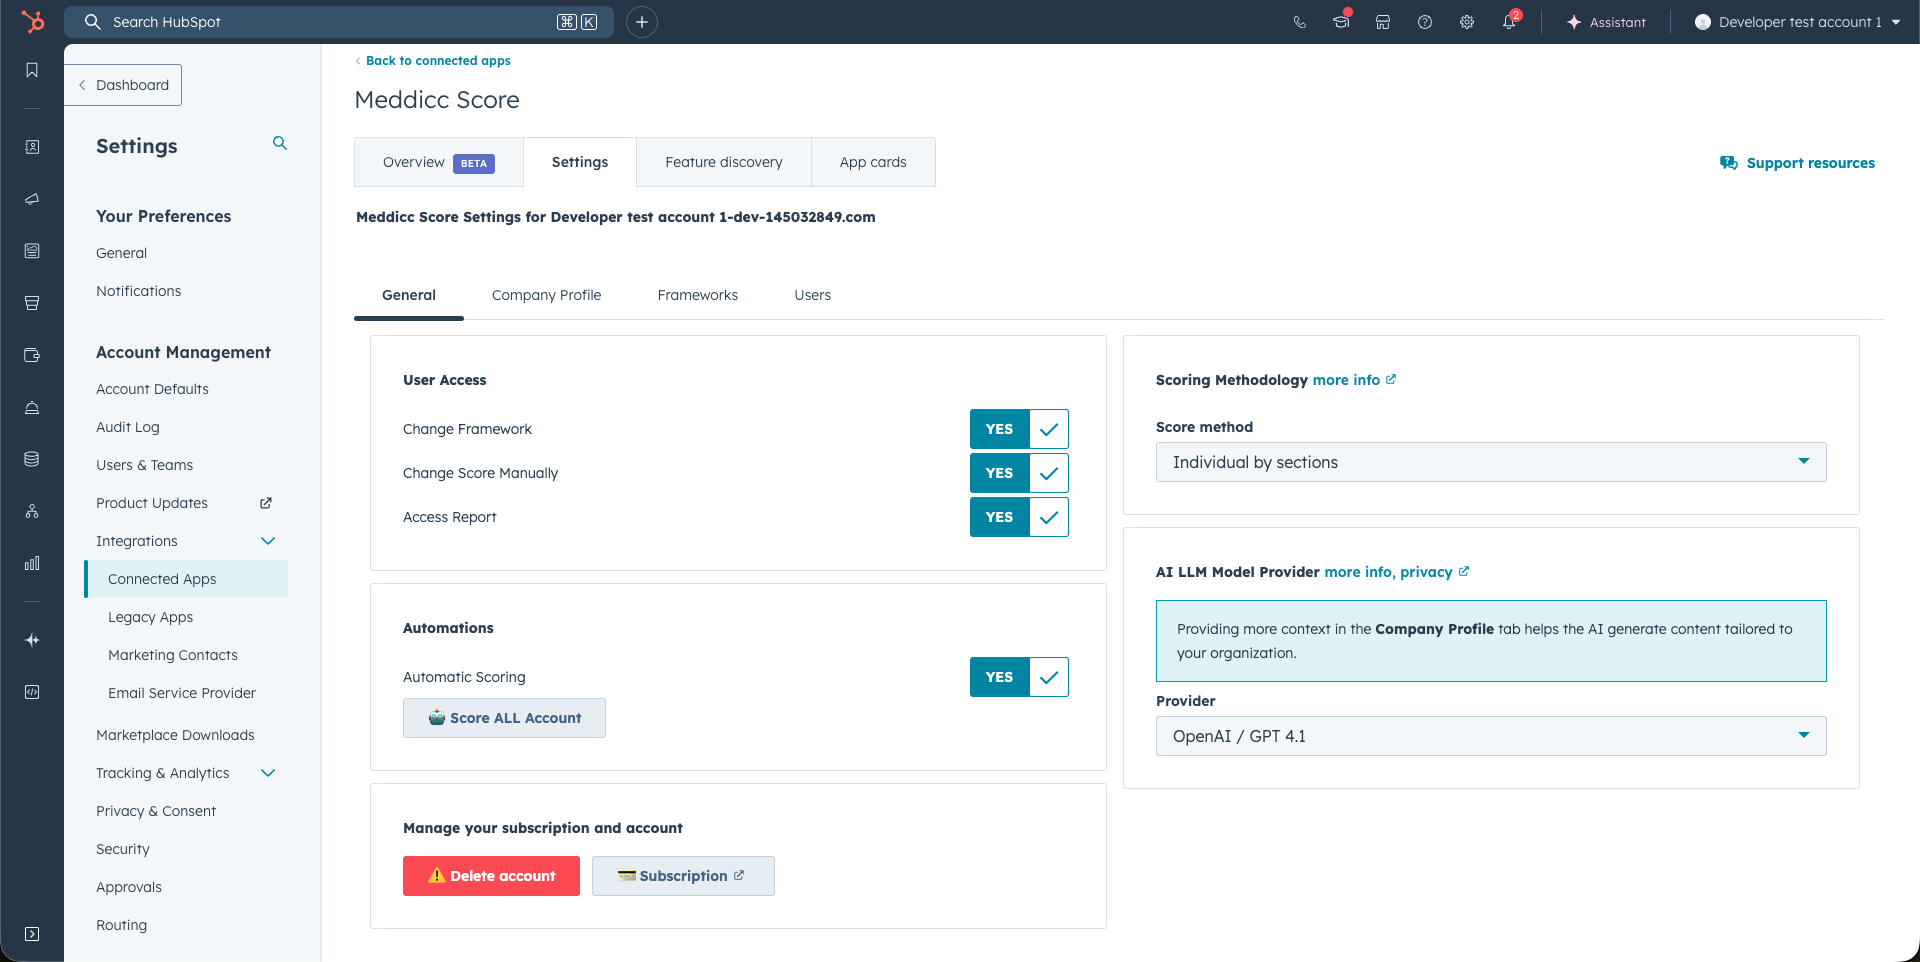
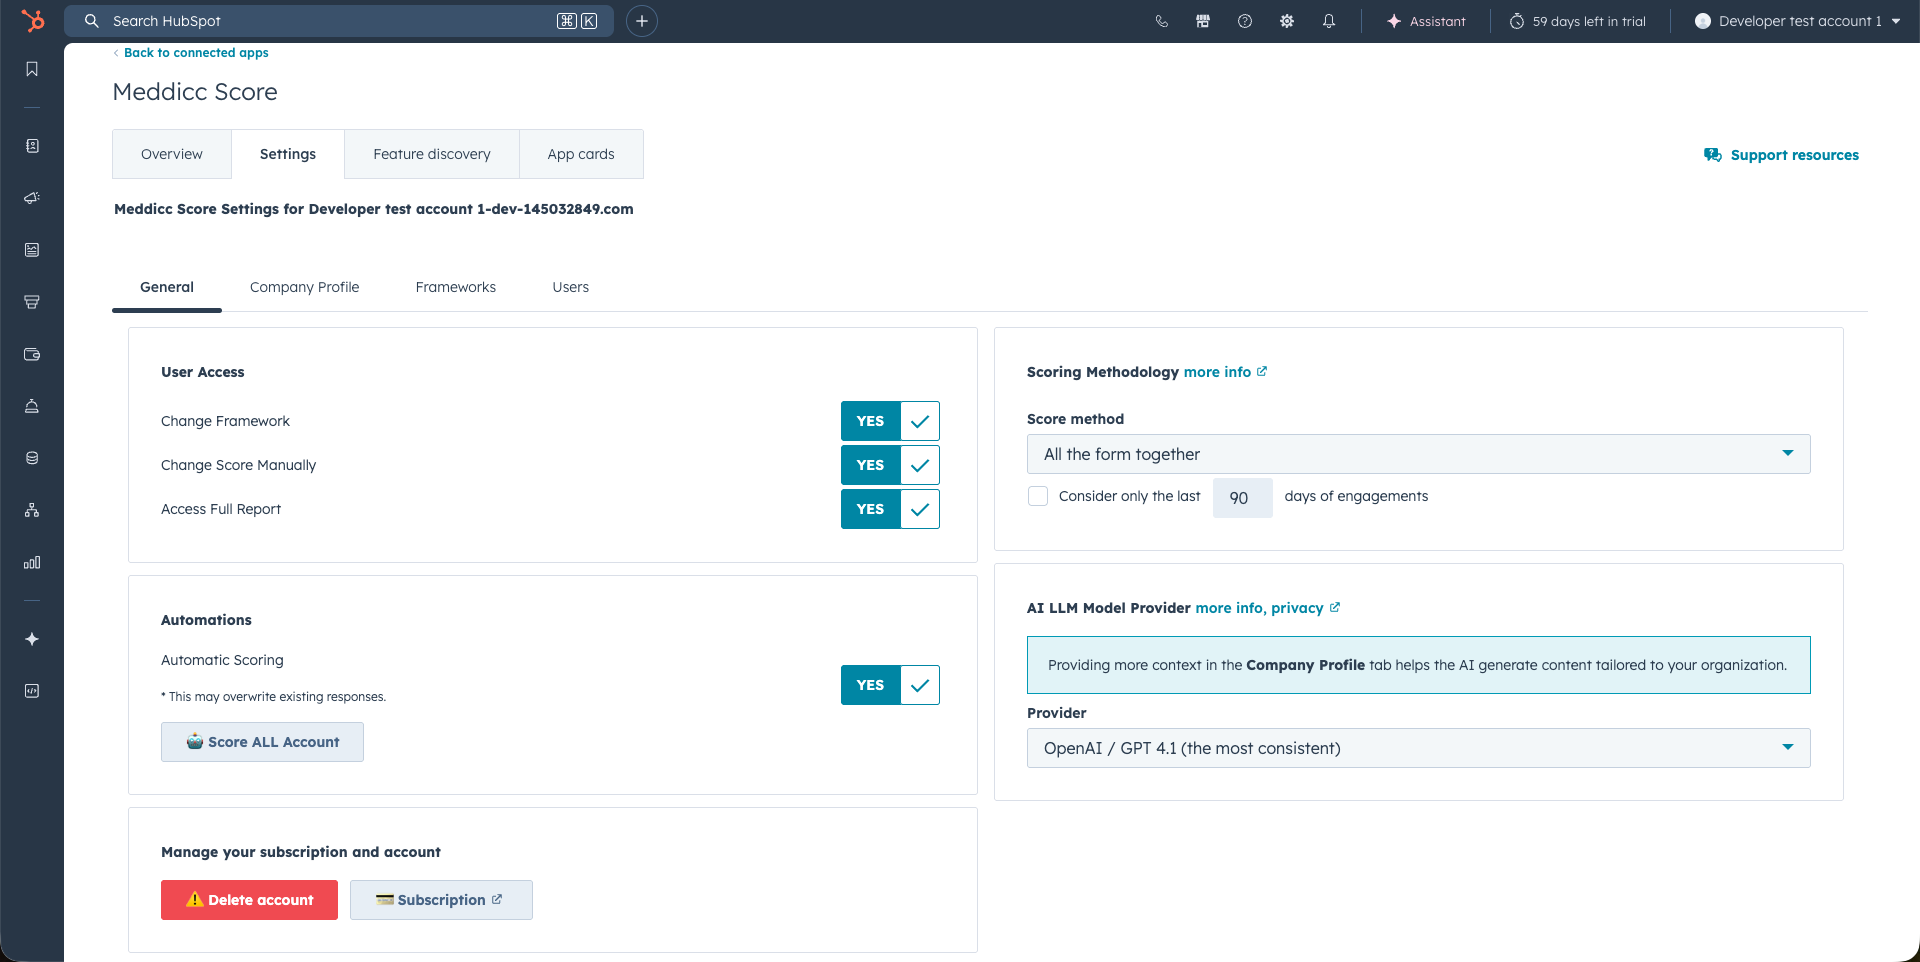
fix new features

diff --git a/_posts/2023-01-01-setup-guide.md b/_posts/2023-01-01-setup-guide.md
@@ -320,13 +320,16 @@ Note: Comments to engagements or attachments to the engagements are not gathered
 <p class="pt-6-m" id="scoring_methodology"><strong>8.1.3 Scoring Methodology:</strong></p>
 
 <ul>
-  <li>Score of the forms go from 0 to 100. There are two options for Scoring the forms.</li>
-  <li>
-    <strong>All the form together (default):</strong> When enabled, the entire form is evaluated by the selected AI LLM model, which generates a score based on the overall responses within the sales qualification framework and assesses the likelihood of successfully closing the deal. Please note that results may vary depending on the chosen model and the specific evaluation, and may sometimes be subject to interpretation or appear optimistic in nature.
-  </li>
-  <li>
-    <strong>Individual by sections:</strong> With this option, each section of the form (e.g., Metrics, Economic Buyer, etc.) is scored as either bad (0), medium (0.5), or good (1). The individual section scores are then summed, divided by the total number of sections, and multiplied by 100 to produce a final score between 0 and 100. This method provides more predictable and consistent results, though it may also lead to more repetitive scoring patterns.
-  </li>
+  <li>Score of the forms go from 0 to 100. There are two options for Scoring the forms:</li>
+  <ul>
+    <li>
+      <strong>All the form together (default):</strong> When enabled, the entire form is evaluated by the selected AI LLM model, which generates a score based on the overall responses within the sales qualification framework and assesses the likelihood of successfully closing the deal. Please note that results may vary depending on the chosen model and the specific evaluation, and may sometimes be subject to interpretation or appear optimistic in nature.
+    </li>
+    <li>
+      <strong>Individual by sections:</strong> With this option, each section of the form (e.g., Metrics, Economic Buyer, etc.) is scored as either bad (0), medium (0.5), or good (1). The individual section scores are then summed, divided by the total number of sections, and multiplied by 100 to produce a final score between 0 and 100. This method provides more predictable and consistent results, though it may also lead to more repetitive scoring patterns.
+    </li>
+  </ul>
+  <li>Consider only the las XX days of engagements: By default, the AI analyzes the last 100 deal activities (notes, calls, meetings, etc). You can refine this by setting a specific day limit, ensuring the AI focuses only on your most recent—and relevant—engagements for refilling and scoring.</li>
 </ul>
 
 <p class="pt-6-m" id="selectLLM"><strong>8.1.4 AI LLM Model Provider:</strong></p>
@@ -466,7 +469,9 @@ Note: Comments to engagements or attachments to the engagements are not gathered
 <h5 class="pt-6-m mb-3 text-primary mt-2" id="manage-account">8.4 Users: Manage your users (only Admin)</h5>
 
 <ul>
-  <li>Clicking on the "Users" tab displays a list of current users who have installed MeddiccScore.</li>
+  <li>Clicking on the "Users" tab displays a list of current users who have installed MeddiccScore, and their licence status.</li>
+  <li>Language Settings: You can set a preferred language for every user on the account. This ensures that Sales Frameworks (questions and answers), assessments, and next steps are generated in that specific language. This setting applies even if the original records are in a different language. By default, all users are set to English.<br> 
+  Supported Languages: English, French, German, Dutch, Spanish, Portuguese, and Italian. (more can be added per request) </li>
     <li>In the right column of the list, three actions are available only to the Admin users:
     <ul>
       <li><strong>Upgrade/Downgrade:</strong> Change the user's status to Premium or Free. This action either assigns or frees up a license. If no licenses are available, additional licenses can be purchased, or the account can be upgraded to the Team plan. <strong>Please note the downgrade DO NOT cancel the subcription, just free the seat or the licences count.</strong></li>
